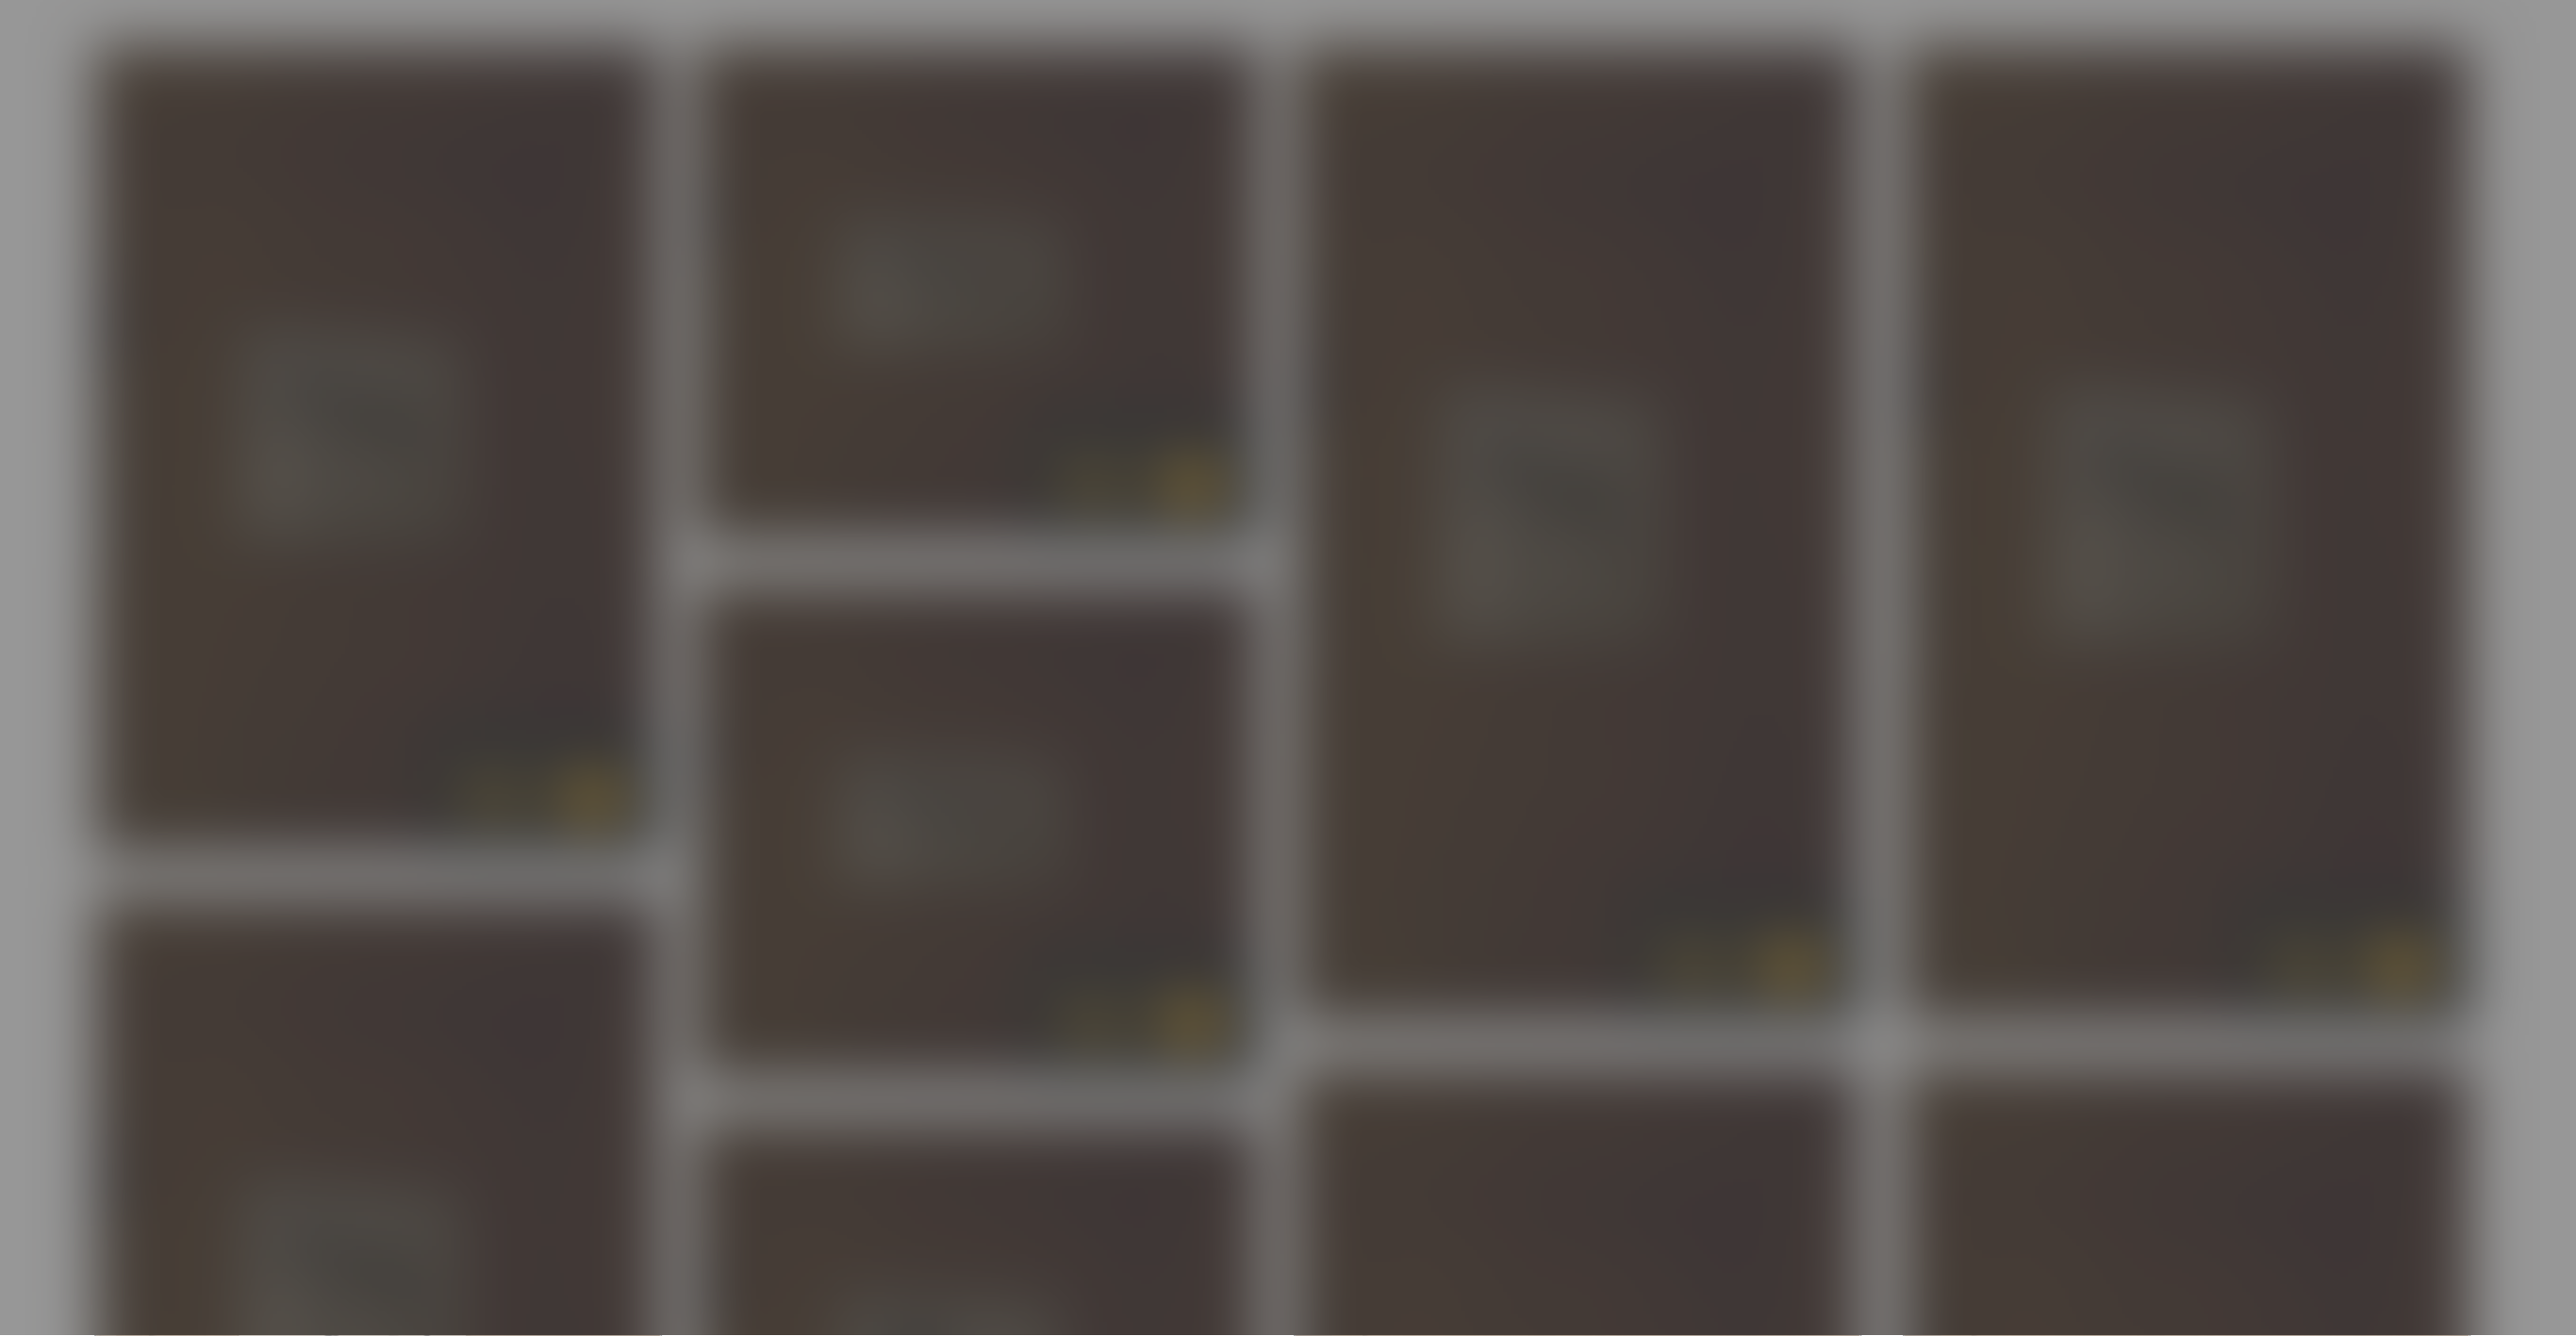
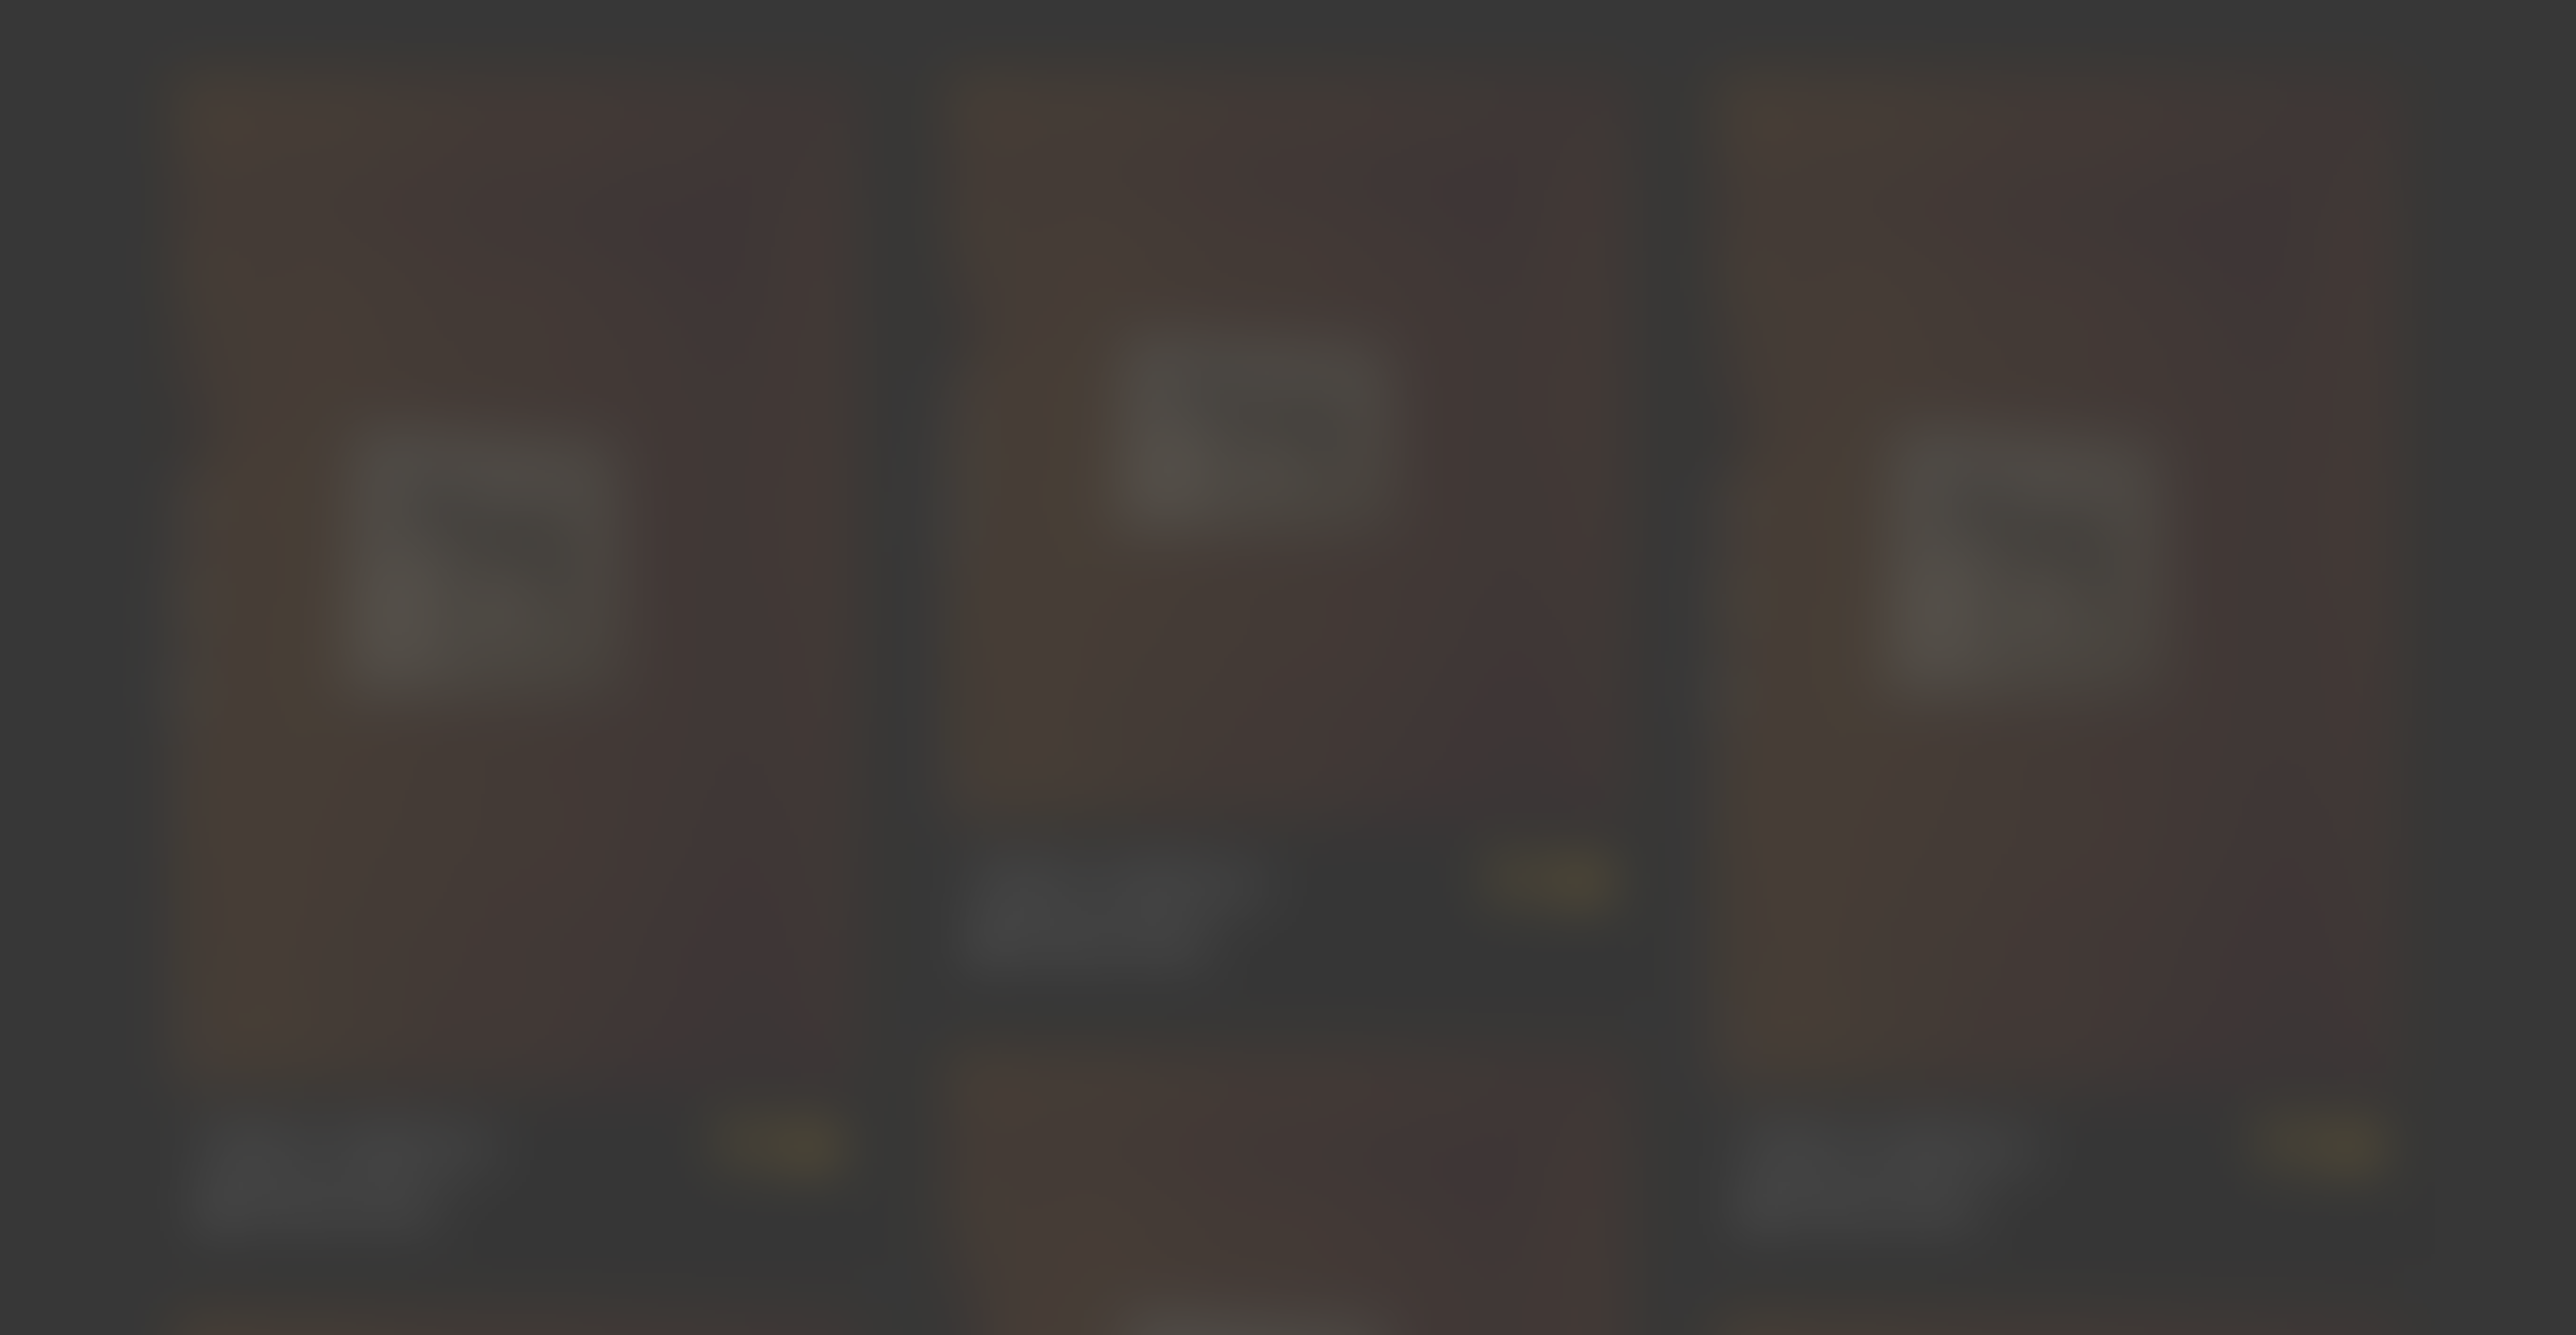
Frontend iyileştirmeleri

Changed region(s): [[0.0, 0.0, 1.0, 1.0]]

diff --git a/server/src/main/webapp/WEB-INF/view/frontend/src/pages/Home.js b/server/src/main/webapp/WEB-INF/view/frontend/src/pages/Home.js
@@ -9,64 +9,31 @@ export default function Home() {
   const [images, setImages] = useState([]);
 
   useEffect(() => {
-    /*axios.get("/api/v1/image/all").then((res) => {
+    axios.get("/api/v1/image/all").then((res) => {
       if (res.status === 200) {
         setImages(res.data);
       }
-    });*/
-    setImages([
-      {
-        id: 1,
-        desc: "bu sistemin database şeması",
-        url: "http://localhost:8080/images/1/1",
-        user: 1,
-      },
-      {
-        id: 2,
-        desc: "staj başvuru formum",
-        url: "http://localhost:8080/images/1/2",
-        user: 1,
-      },
-      {
-        id: 3,
-        desc: "github profilim",
-        url: "http://localhost:8080/images/1/3",
-        user: 1,
-      },
-      {
-        id: 4,
-        desc: "bazen internetimiz",
-        url: "http://localhost:8080/images/1/4",
-        user: 1,
-      },
-      {
-        id: 5,
-        desc: "kocaeli minik",
-        url: "http://localhost:8080/images/1/5",
-        user: 1,
-      },
-      {
-        id: 6,
-        desc: "kocaeli minik",
-        url: "http://localhost:8080/images/14/6",
-        user: 14,
-      },
-    ]);
+    });
     return () => {};
   }, []);
 
   return (
     <div className="box">
       <Header />
-      <DivBackground color="#F3F4F5">
+      <DivBackground backgroundColor="#444444">
         <Masonry
-          breakpointCols={4}
+          breakpointCols={3}
           className="my-masonry-grid"
           columnClassName="my-masonry-grid_column"
         >
           {images.map((image) => {
             return (
-              <ImageBox key={image.id} desc={image.desc} img={image.url} />
+              <ImageBox
+                key={image.id}
+                desc={image.desc}
+                img={image.url}
+                user={image.uname}
+              />
             );
           })}
         </Masonry>

diff --git a/server/src/main/webapp/WEB-INF/view/frontend/src/assets/style/style.css b/server/src/main/webapp/WEB-INF/view/frontend/src/assets/style/style.css
@@ -25,8 +25,9 @@ body,
 
 .header {
   background-color: #313131;
-  position: relative;
+  position: sticky;
   height: 60px;
+  top: 0px;
 }
 
 .clickable,
@@ -130,26 +131,38 @@ a {
   display: -webkit-box; /* Not needed if autoprefixing */
   display: -ms-flexbox; /* Not needed if autoprefixing */
   display: flex;
-  margin-left: -5px; /* gutter size offset */
+  margin-left: -20px; /* gutter size offset */
   width: auto;
+  padding: 20px;
 }
 .my-masonry-grid_column {
-  padding-left: 5px; /* gutter size */
+  padding-left: 20px; /* gutter size */
   background-clip: padding-box;
 }
 
 /* Style your items */
 .my-masonry-grid_column > div {
   /* change div to reference your elements you put in <Masonry> */
-  background: grey;
-  margin-bottom: 5px;
+  background: #313131;
+  margin-bottom: 20px;
 }
 
 .imagebox {
-  box-shadow: 0 2px 4px 0 rgba(0, 0, 0, 0.4);
+  box-shadow: 0 3px 12px 0 rgba(0, 0, 0, 0.4);
+  overflow: hidden;
+  cursor: pointer;
+}
+
+.imagebox:hover {
 }
 
 .imagebox-desc {
+  color: white;
+  padding-left: 12px;
+  padding-right: 12px;
+  padding-top: 6px;
+  padding-bottom: 9px;
+  font-size: 16px;
 }
 
 .imagebox-imgbox {

diff --git a/server/src/main/webapp/WEB-INF/view/frontend/src/components/ImageBox.js b/server/src/main/webapp/WEB-INF/view/frontend/src/components/ImageBox.js
@@ -1,12 +1,27 @@
 import React from "react";
+import icon_profile from "../assets/images/icon_profile.png";
 
 export default function ImageBox(props) {
   return (
     <div className="imagebox">
       <div className="imagebox-imgbox">
-        <img src={props.img} alt={props.desc} style={{ width: "100%" }} />
+        <img
+          src={props.img}
+          loading="lazy"
+          alt={props.desc}
+          style={{ width: "100%" }}
+        />
       </div>
-      <div className="imagebox-desc">{props.desc}</div>
+      <div className="imagebox-desc">
+        {props.desc}
+        <br />
+        <img
+          src={icon_profile}
+          width="20px"
+          style={{ transform: "translateY(4px)", marginRight: "6px" }}
+        />
+        {props.user}
+      </div>
     </div>
   );
 }

diff --git a/server/src/main/webapp/WEB-INF/view/frontend/src/components/DivBackground.js b/server/src/main/webapp/WEB-INF/view/frontend/src/components/DivBackground.js
@@ -12,7 +12,11 @@ export default function DivBackground(props) {
   return (
     <div
       className="row-fill"
-      style={props.color ? { color: props.color } : imageStyle}
+      style={
+        props.backgroundColor
+          ? { backgroundColor: props.backgroundColor }
+          : imageStyle
+      }
     >
       {props.children}
     </div>

diff --git a/server/src/main/java/com/imgpaylas/server/config/ApiSecurityConfig.java b/server/src/main/java/com/imgpaylas/server/config/ApiSecurityConfig.java
@@ -17,10 +17,27 @@ public class ApiSecurityConfig extends WebSecurityConfigurerAdapter
 	protected void configure(HttpSecurity http) throws Exception
 	{
 		http
-				.csrf().disable()
+				/*.csrf().disable()
 				.authorizeRequests()
 				.anyRequest()
-				.permitAll();
+				.permitAll();*/
+				.csrf().disable()
+				.authorizeRequests()
+				.antMatchers("/api/**/user/register", "/register", "/api/**/auth/**")
+				.permitAll()
+				.antMatchers(
+						HttpMethod.GET,
+						"/index*", "/static/**", "/*.js", "/*.json", "/*.ico")
+				.permitAll()
+				.anyRequest().authenticated()
+				.and()
+				.formLogin()
+				.loginPage("/login")
+				.permitAll()
+				.usernameParameter("email")
+				.loginProcessingUrl("/login")
+				.defaultSuccessUrl("/home", true)
+				.failureUrl("/login?error=true");
 	}
 
 	@Bean

diff --git a/server/src/main/java/com/imgpaylas/server/model/Image.java b/server/src/main/java/com/imgpaylas/server/model/Image.java
@@ -42,11 +42,18 @@ public class Image
 		return String.format("%s/images/%d/%d", hostUrl, user.getId(), id);
 	}
 
-	@JsonProperty("user")
+	@JsonProperty("uid")
 	@JsonInclude
 	public Long getUserId()
 	{
 		return user.getId();
+	}
+
+	@JsonProperty("uname")
+	@JsonInclude
+	public String getUserName()
+	{
+		return user.getName();
 	}
 
 	public Long getId()
